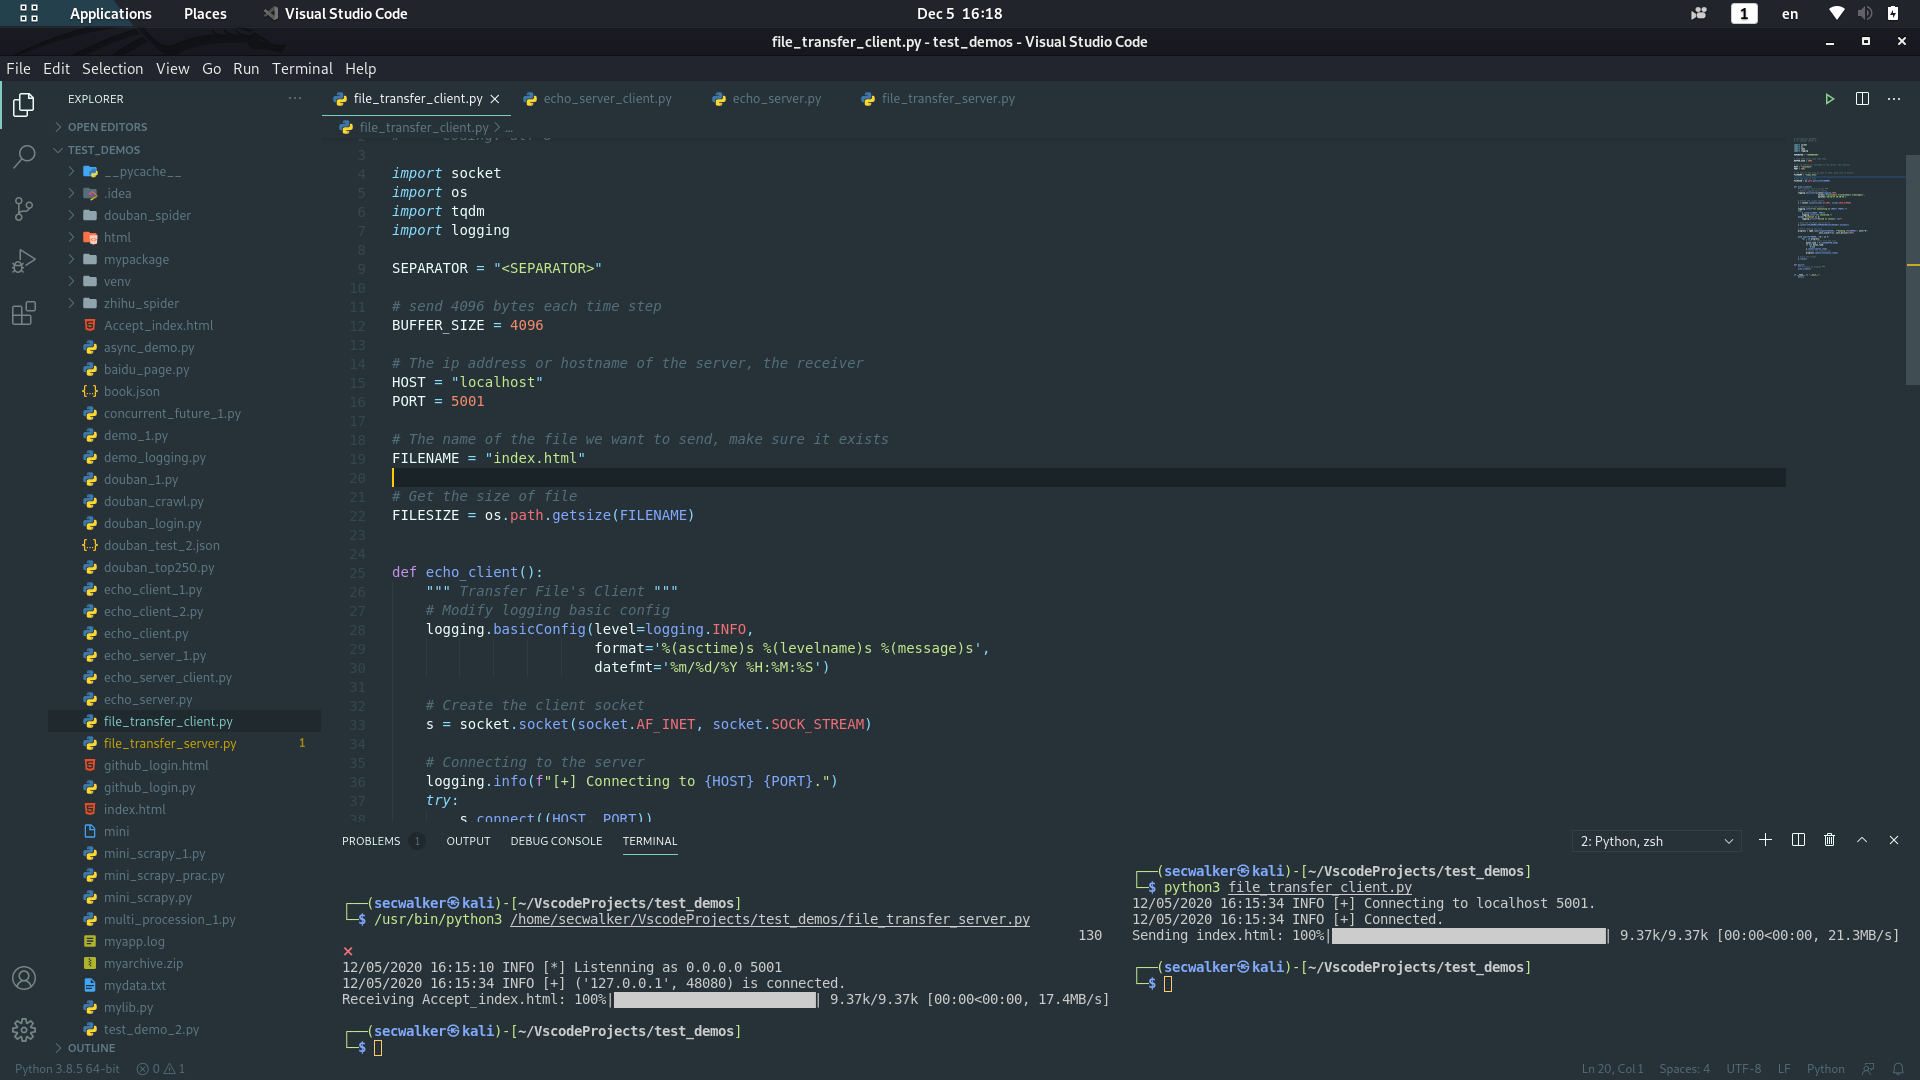
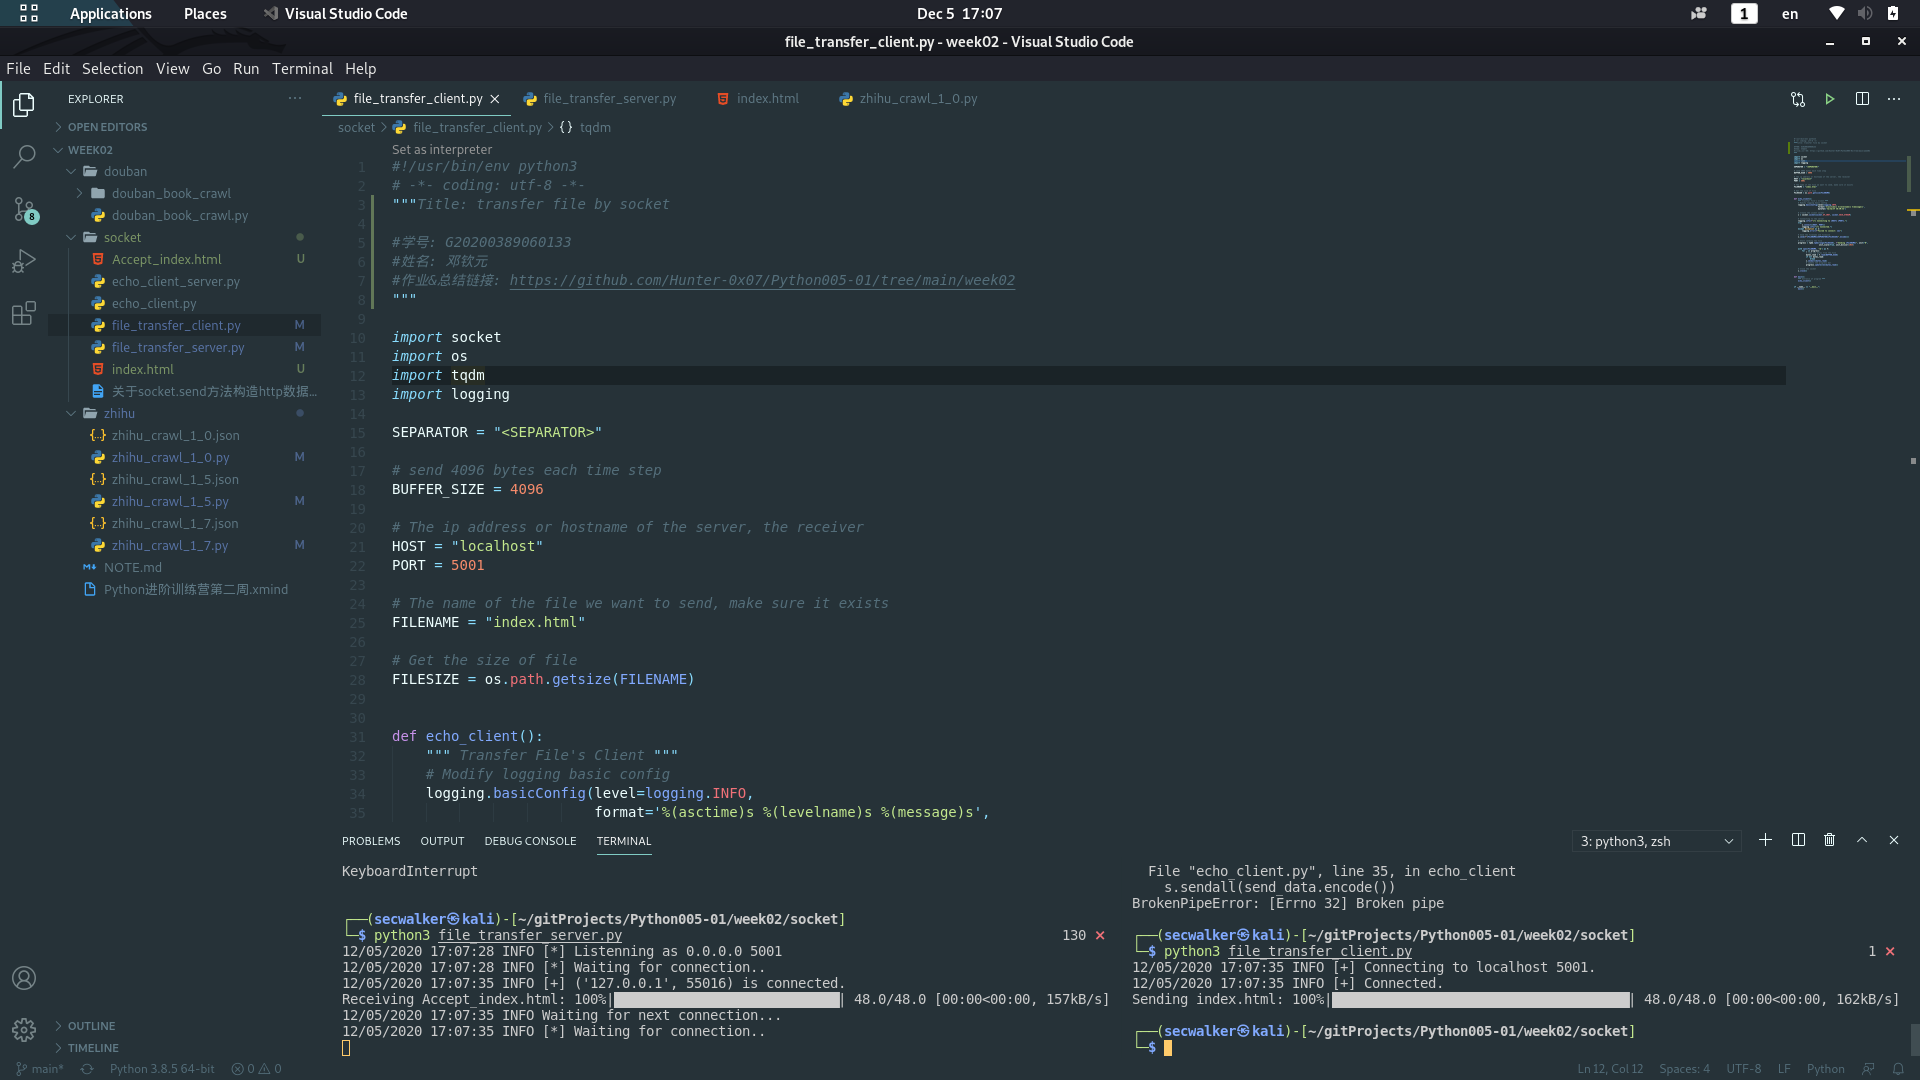
提交socket作业

diff --git a/week02/socket/Accept_index.html b/week02/socket/Accept_index.html
@@ -1,0 +1,2 @@
+<h1>Hello World</h1>
+<h2>传输成功拉！</h2>

diff --git a/week02/socket/index.html b/week02/socket/index.html
@@ -1,0 +1,2 @@
+<h1>Hello World</h1>
+<h2>传输成功拉！</h2>

diff --git a/week02/socket/file_transfer_server.py b/week02/socket/file_transfer_server.py
@@ -1,5 +1,11 @@
 #!/usr/bin/env python3
 # -*- coding: utf-8 -*-
+"""Title: transfer file by socket
+
+#学号: G20200389060133
+#姓名: 邓钦元
+#作业&总结链接: https://github.com/Hunter-0x07/Python005-01/tree/main/week02
+"""
 
 import socket
 import tqdm
@@ -32,33 +38,51 @@ def echo_server():
     s.listen(5)
     logging.info(f"[*] Listenning as {SERVER_HOST} {SERVER_PORT}")
 
-    # Accept connection if there is any
-    client_socket, address = s.accept()
-    logging.info(f"[+] {address} is connected.")
-    received = client_socket.recv(BUFFER_SIZE).decode("utf-8")
-    filename, filesize = received.split(SEPARATOR)
+    while True:
+        # Accept connection if there is any
+        logging.info("[*] Waiting for connection..")
+        client_socket, address = s.accept()
+        logging.info(f"[+] {address} is connected.")
 
-    # Remove absolute path if there is
-    filename = "Accept_" + os.path.basename(filename)
+        while True:
+            # Receive file if there is
+            received = client_socket.recv(BUFFER_SIZE).decode("utf-8")
+            if received:
+                filename, filesize = received.split(SEPARATOR)
 
-    # Convert filesize to integer
-    filesize = int(filesize)
+                # Remove absolute path if there is
+                filename = "Accept_" + os.path.basename(filename)
 
-    # Start receiving the file from the socket
-    # and write it to the file stream
-    progress = tqdm.tqdm(range(filesize), f'Receiving {filename}',
-                            unit="B", unit_scale=True, unit_divisor=1024)
-    with open(filename, "wb") as f:
-        for _ in progress:
-            bytes_read = client_socket.recv(BUFFER_SIZE)
-            if not bytes_read:
-                break
+                # Convert filesize to integer
+                filesize = int(filesize)
 
-            # Update the progress bar
-            progress.update(len(bytes_read))
+                # Start receiving the file from the socket
+                # and write it to the file stream
+                progress = tqdm.tqdm(range(filesize), f'Receiving {filename}',
+                                     unit="B", unit_scale=True, unit_divisor=1024)
 
-    # Close the client socket
-    client_socket.close()
+                with open(filename, "ab+") as f:
+                    for _ in progress:
+                        bytes_read = client_socket.recv(BUFFER_SIZE)
+
+                        # Write data to file
+                        f.write(bytes_read)
+
+                        # Update the progress bar
+                        progress.update(len(bytes_read))
+                        progress.display()
+                        # try:
+                        #     progress.update(len(bytes_read))
+                        #     progress.display()
+                        # except Exception as e:
+                        #     logging.error(f"Some bad things happened, {e}")
+
+                        if not bytes_read:
+                            # Close the client socket
+                            client_socket.close()
+                            logging.info("Waiting for next connection...")
+                            break
+            break
 
     # Close the server socket
     s.close()

diff --git a/week02/socket/file_transfer_client.py b/week02/socket/file_transfer_client.py
@@ -1,5 +1,11 @@
 #!/usr/bin/env python3
 # -*- coding: utf-8 -*-
+"""Title: transfer file by socket
+
+#学号: G20200389060133
+#姓名: 邓钦元
+#作业&总结链接: https://github.com/Hunter-0x07/Python005-01/tree/main/week02
+"""
 
 import socket
 import os
